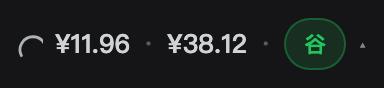
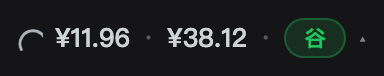
fix: keep the period badge inside the composer row height
The period badge in the composer readout rendered 26px tall inside a 20px row,
so it read as oversized next to the 9px digits beside it.

`.dcb-badge` set its own 11px font but no `line-height`, so it inherited
`.dcb-dockTrigger`'s 20px line-height - a rule sized for 13px text. The pill box
was therefore 20 + 2*2 padding + 2*1 border = 26px, taller than the row it sits
in. Setting the badge's own `line-height:14px` makes it 14 + 4 + 2 = 20px, which
matches the row, and the sidebar's copy of the same badge aligns with the card
heading beside it.

Measured off a 2x capture of the real app: the pill was 31.0x26.0 CSS before and
is 31.0x20.0 after, with its centre on the same y as the adjacent heading text.

Adds a regression test that parses the badge box out of the built CSS and
asserts it does not exceed the composer row's line-height. Removing the
line-height declaration makes it fail.

diff --git a/lib/client.js b/lib/client.js
@@ -207,7 +207,7 @@ window.__ModuleLoader__.load({
 .dcb-row{display:flex;align-items:baseline;justify-content:space-between;gap:10px;font-variant-numeric:tabular-nums;flex:0 0 auto}
 .dcb-k{display:inline-flex;align-items:center;gap:5px;color:var(--dsw-alias-label-secondary);font-size:var(--dsl-g-font-meta,11px)}
 .dcb-v{font-family:var(--dsl-g-font-mono,ui-monospace,monospace);font-weight:600}
-.dcb-badge{display:inline-flex;align-items:center;gap:4px;border-radius:999px;padding:2px 9px;font-size:11px;font-weight:650;border:1px solid transparent}
+.dcb-badge{display:inline-flex;align-items:center;gap:4px;border-radius:999px;padding:2px 9px;font-size:11px;font-weight:650;line-height:14px;border:1px solid transparent}
 .dcb-badge-peak{color:var(--dsw-alias-state-error-primary);background:color-mix(in srgb,var(--dsw-alias-state-error-primary) 14%,transparent);border-color:color-mix(in srgb,var(--dsw-alias-state-error-primary) 32%,transparent)}
 .dcb-badge-off{color:var(--dsw-alias-state-success-primary);background:color-mix(in srgb,var(--dsw-alias-state-success-primary) 14%,transparent);border-color:color-mix(in srgb,var(--dsw-alias-state-success-primary) 32%,transparent)}
 .dcb-table{width:100%;border-collapse:collapse;font-variant-numeric:tabular-nums;flex:0 0 auto}

diff --git a/src/client.ts b/src/client.ts
@@ -428,7 +428,7 @@ window.__ModuleLoader__.load({
 .dcb-row{display:flex;align-items:baseline;justify-content:space-between;gap:10px;font-variant-numeric:tabular-nums;flex:0 0 auto}
 .dcb-k{display:inline-flex;align-items:center;gap:5px;color:var(--dsw-alias-label-secondary);font-size:var(--dsl-g-font-meta,11px)}
 .dcb-v{font-family:var(--dsl-g-font-mono,ui-monospace,monospace);font-weight:600}
-.dcb-badge{display:inline-flex;align-items:center;gap:4px;border-radius:999px;padding:2px 9px;font-size:11px;font-weight:650;border:1px solid transparent}
+.dcb-badge{display:inline-flex;align-items:center;gap:4px;border-radius:999px;padding:2px 9px;font-size:11px;font-weight:650;line-height:14px;border:1px solid transparent}
 .dcb-badge-peak{color:var(--dsw-alias-state-error-primary);background:color-mix(in srgb,var(--dsw-alias-state-error-primary) 14%,transparent);border-color:color-mix(in srgb,var(--dsw-alias-state-error-primary) 32%,transparent)}
 .dcb-badge-off{color:var(--dsw-alias-state-success-primary);background:color-mix(in srgb,var(--dsw-alias-state-success-primary) 14%,transparent);border-color:color-mix(in srgb,var(--dsw-alias-state-success-primary) 32%,transparent)}
 .dcb-table{width:100%;border-collapse:collapse;font-variant-numeric:tabular-nums;flex:0 0 auto}
